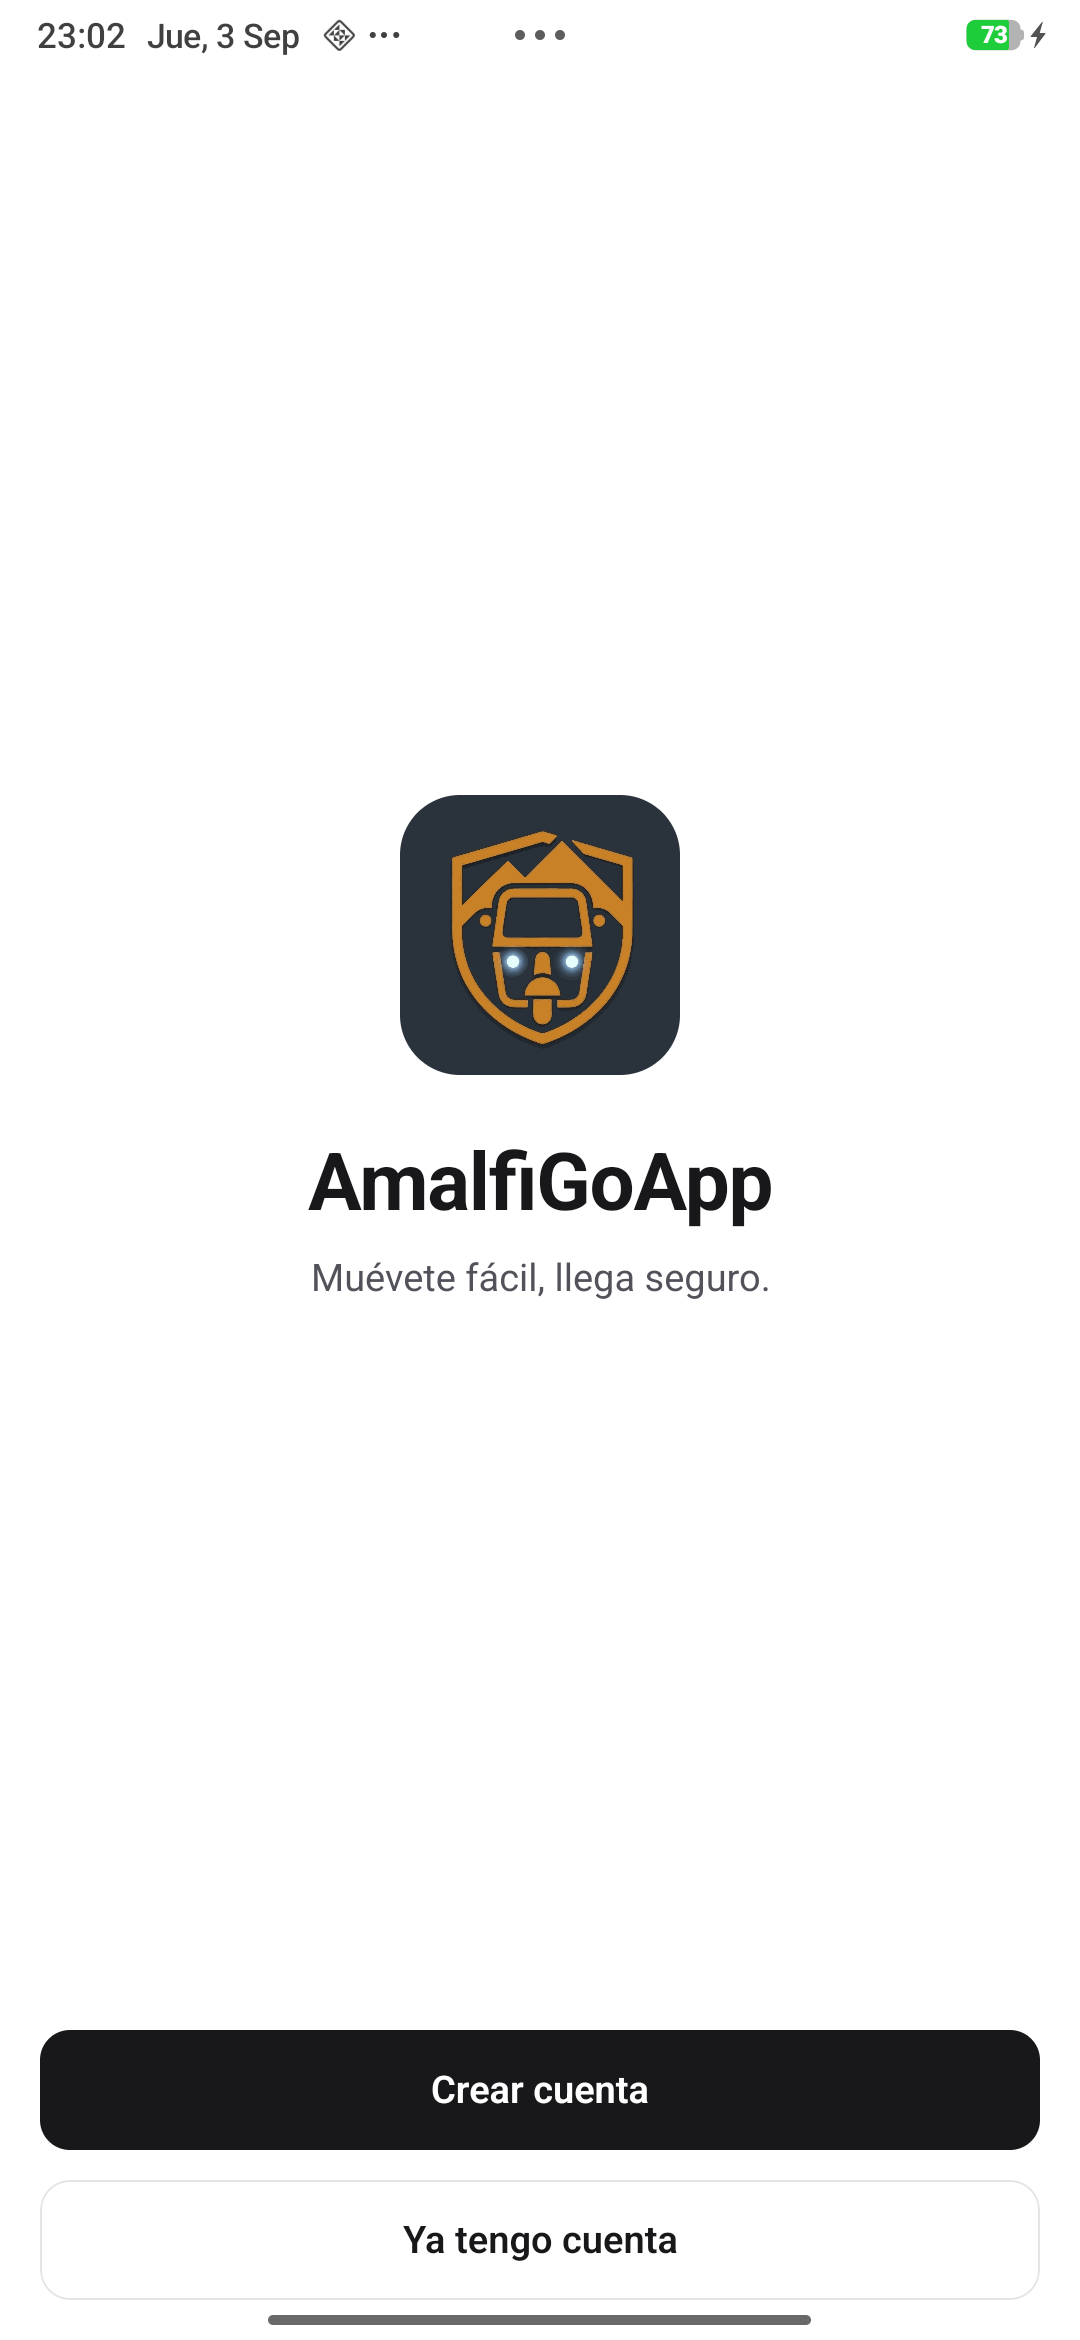
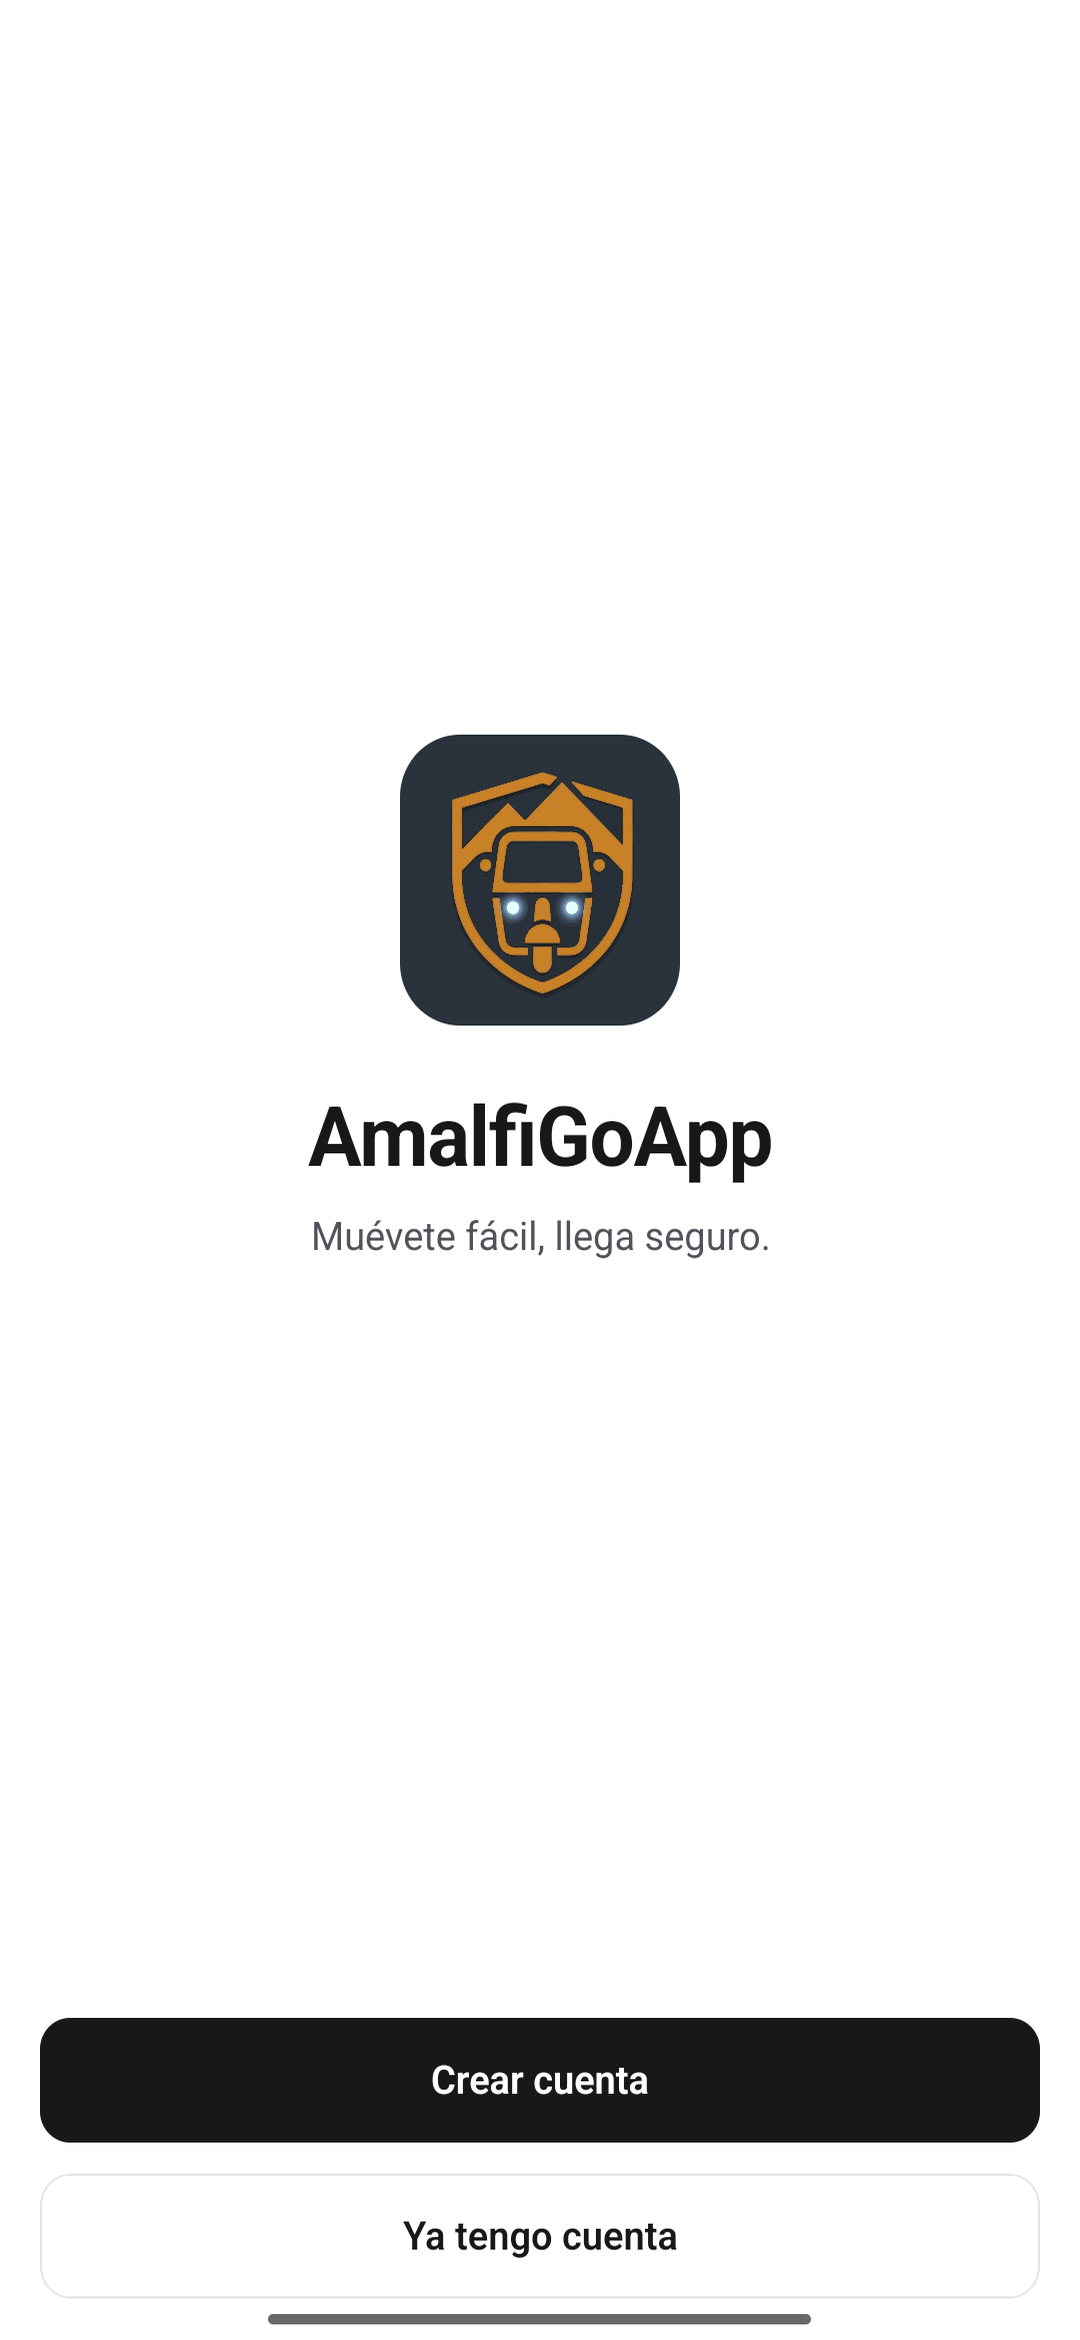
Capturas 1-4 de Play Store: quita la barra de estado
Deja las 4 viejas (bienvenida, inicio, perfil, historial) a 1080x2340 sin barra
de estado, igual que las 5-7. El set de la ficha queda uniforme.

diff --git a/docs/operaciones/ficha-play-store.md b/docs/operaciones/ficha-play-store.md
@@ -68,7 +68,7 @@ AmalfiGoApp es para Amalfi, Antioquia. Hoy no funciona en otros municipios.
 | -------------------------------------- | -------------------------------------------------------------- | --------------------------------------------------------------------------------------------------------------------------------------------------------------------------------------------------- |
 | Icono                                  | 512 × 512 PNG, 32 bits                                         | **Existe:** `assets/images/icon.png`                                                                                                                                                                |
 | Gráfico de funciones (feature graphic) | 1024 × 500 PNG/JPG, sin texto crítico en los bordes            | **HECHO:** `assets/store/feature-graphic.png` (lo genera `assets/brand/feature-graphic.mjs`)                                                                                                        |
-| Capturas de teléfono                   | 2 a 8, PNG/JPG, lado mín. 320 px, máx. 3840, ratio 16:9 o 9:16 | **7 hechas** en `assets/store/capturas/` (1080×2340). 1-4 (bienvenida, inicio, perfil, historial): datos de prueba, mapa en Amalfi. 5-7 (tarifa, conductor en camino, solicitud del conductor): del viaje simulado del 2026-09-09, sin barra de estado. Falta rehacer 1-4 con la barra de estado quitada para que todo el set sea uniforme |
+| Capturas de teléfono                   | 2 a 8, PNG/JPG, lado mín. 320 px, máx. 3840, ratio 16:9 o 9:16 | **7 hechas y uniformes** en `assets/store/capturas/` (1080×2340, sin barra de estado). 1-4: bienvenida, inicio, perfil, historial. 5-7: tarifa, conductor en camino, solicitud del conductor (viaje simulado del 2026-09-09). Nota: `2-inicio` saluda a "Ana Gomez" y `3-perfil` es de "Camila Restrepo" — inconsistencia de la cuenta de prueba, no bloquea |
 | Capturas de tablet 7" / 10"            | Opcionales                                                     | —                                                                                                                                                                                                   |
 
 **Las 3 capturas que faltaban — HECHAS (2026-09-09).** Viaje simulado
